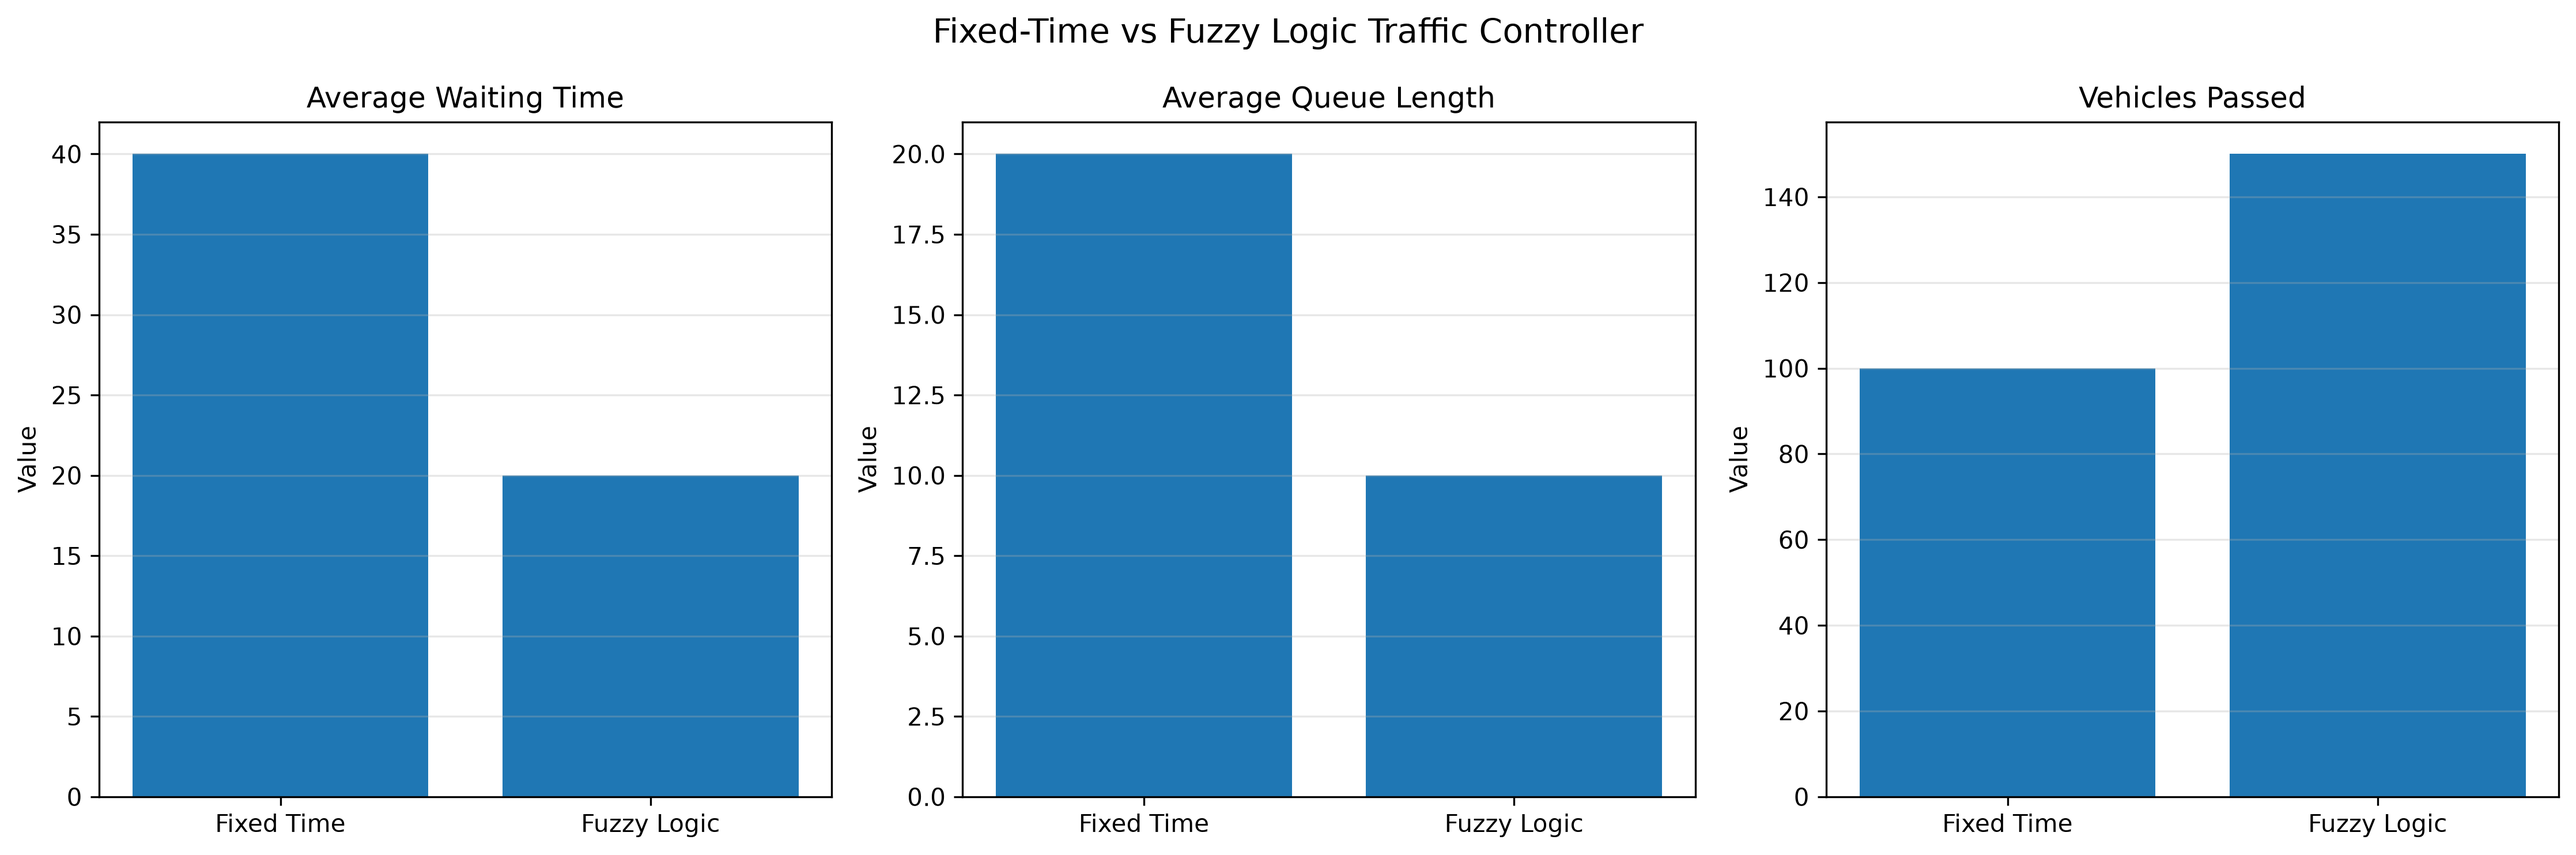
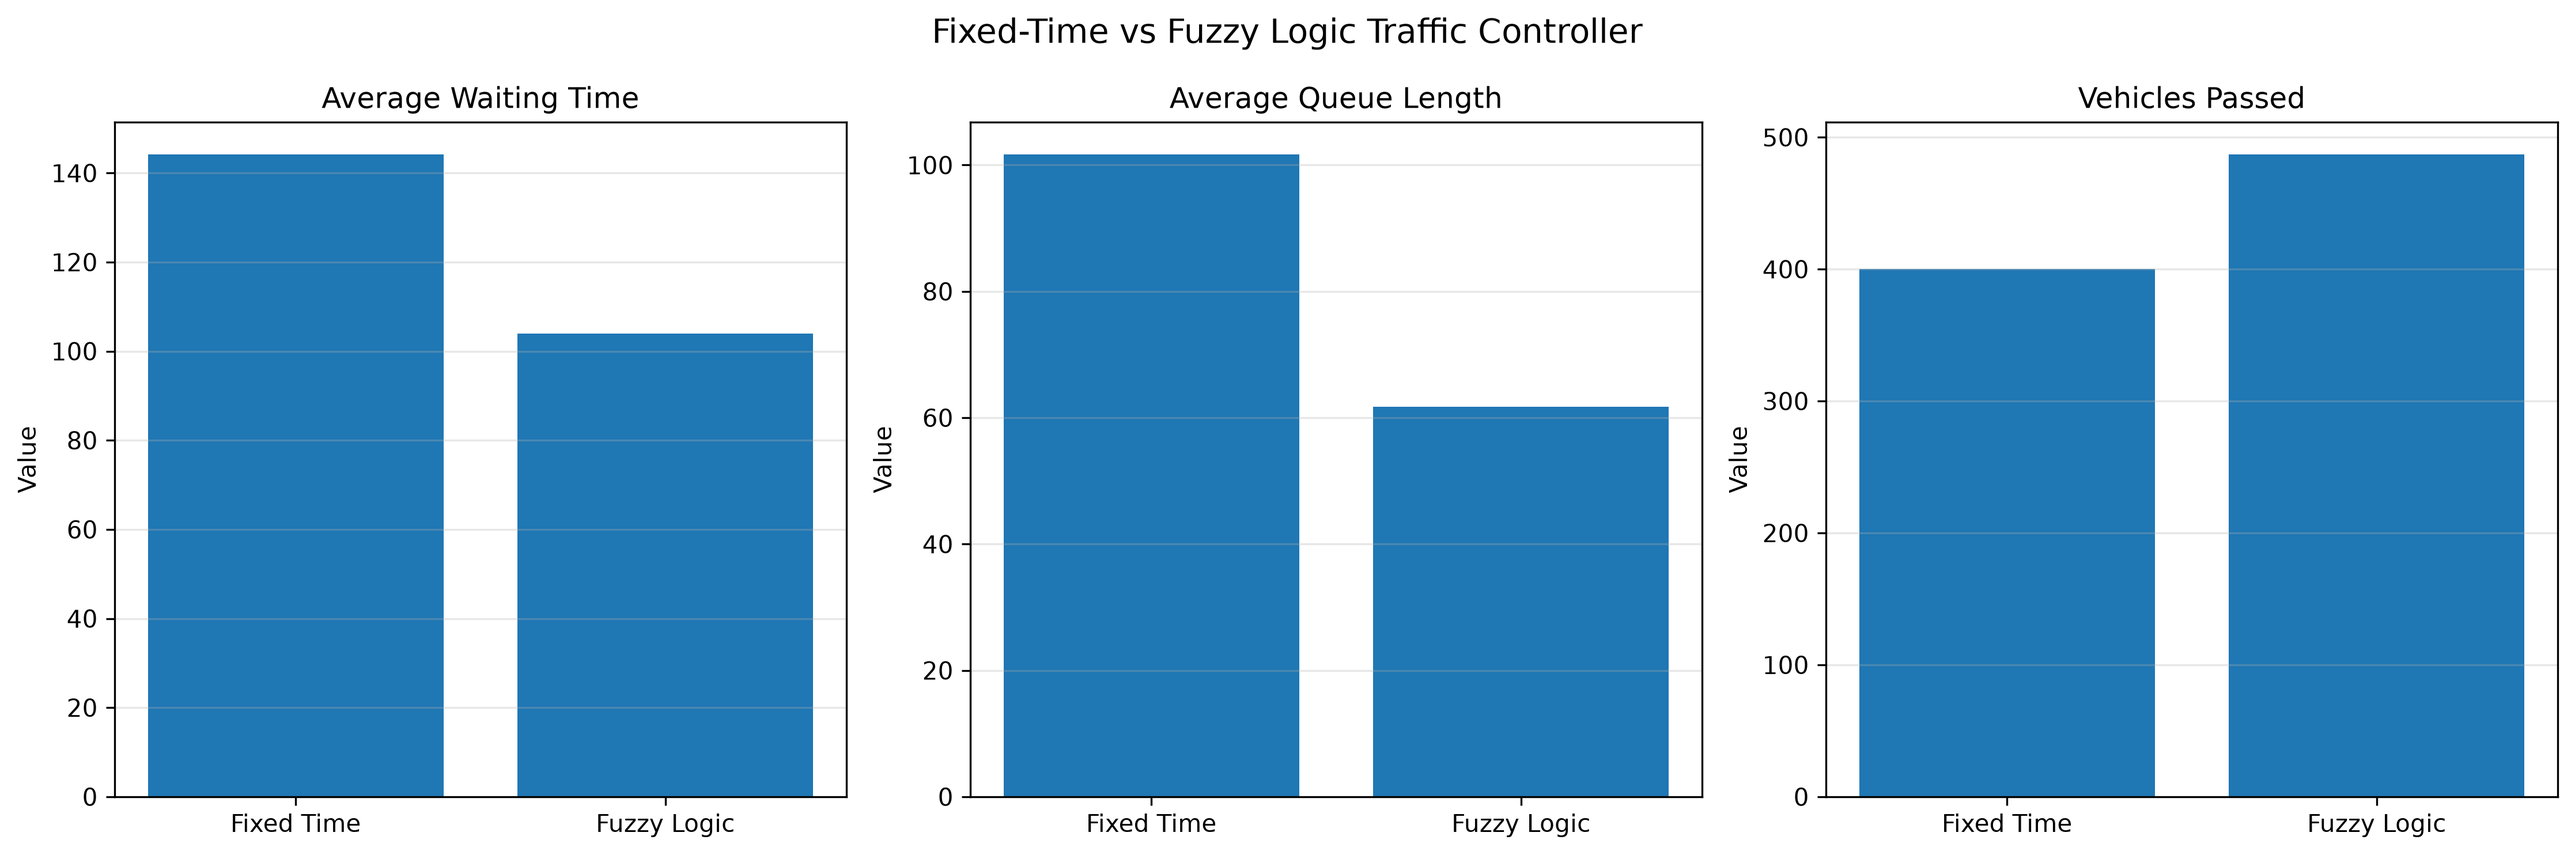
Complete traffic controller integration

diff --git a/app.py b/app.py
@@ -10,11 +10,16 @@ from simulation import (
 
 from fuzzy_logic import fuzzy_controller
 
-# Person 2: Performance Metrics
 from traffic_metrics import (
     calculate_metrics,
     compare_controllers,
     get_congestion_level
+)
+
+from visualization import (
+    create_comparison_graph,
+    create_waiting_time_graph,
+    create_queue_graph
 )
 
 
@@ -37,12 +42,12 @@ st.write(
 
 
 # --------------------------------------------------
-# SIDEBAR: SIMULATION SETTINGS
+# SIDEBAR - SIMULATION SETTINGS
 # --------------------------------------------------
 
 with st.sidebar:
 
-    st.header("Simulation Settings")
+    st.header("⚙ Simulation Settings")
 
     minutes = st.slider(
         "Duration (minutes)",
@@ -74,7 +79,7 @@ with st.sidebar:
 # RUN SIMULATION
 # --------------------------------------------------
 
-if st.button("Run Simulation", type="primary"):
+if st.button("🚦 Run Simulation", type="primary"):
 
     seconds = minutes * 60
 
@@ -115,7 +120,9 @@ if st.button("Run Simulation", type="primary"):
 
 if "results" not in st.session_state:
 
-    st.info("Configure the simulation settings and click Run Simulation.")
+    st.info(
+        "Configure the simulation settings and click Run Simulation."
+    )
 
 else:
 
@@ -129,7 +136,7 @@ else:
 
 
     # --------------------------------------------------
-    # PERSON 2: CALCULATE PERFORMANCE METRICS
+    # CALCULATE PERFORMANCE METRICS
     # --------------------------------------------------
 
     fixed_summary = calculate_metrics(
@@ -146,18 +153,13 @@ else:
 
 
     # --------------------------------------------------
-    # PERSON 2: COMPARE BOTH CONTROLLERS
+    # COMPARE CONTROLLERS
     # --------------------------------------------------
 
     controller_comparison = compare_controllers(
         fixed_summary,
         fuzzy_summary
     )
-
-
-    # --------------------------------------------------
-    # PERSON 2: CONGESTION CLASSIFICATION
-    # --------------------------------------------------
 
     fixed_congestion = get_congestion_level(
         fixed_summary["average_queue_length"]
@@ -169,7 +171,7 @@ else:
 
 
     # --------------------------------------------------
-    # SECTION 1: PERFORMANCE OVERVIEW
+    # PERFORMANCE OVERVIEW
     # --------------------------------------------------
 
     st.divider()
@@ -197,7 +199,9 @@ else:
             fixed_summary["total_vehicles_passed"]
         )
 
-        st.info(f"Congestion Level: {fixed_congestion}")
+        st.info(
+            f"Congestion Level: {fixed_congestion}"
+        )
 
 
     with col2:
@@ -225,11 +229,13 @@ else:
             fuzzy_summary["total_vehicles_passed"]
         )
 
-        st.success(f"Congestion Level: {fuzzy_congestion}")
+        st.success(
+            f"Congestion Level: {fuzzy_congestion}"
+        )
 
 
     # --------------------------------------------------
-    # SECTION 2: PERCENTAGE IMPROVEMENT
+    # PERCENTAGE IMPROVEMENT
     # --------------------------------------------------
 
     st.divider()
@@ -244,7 +250,9 @@ else:
 
         improvement = values["improvement_percentage"]
 
-        st.write(f"Improvement: {improvement}%")
+        st.write(
+            f"Improvement: {improvement}%"
+        )
 
         if improvement > 0:
 
@@ -254,11 +262,13 @@ else:
 
         else:
 
-            st.info("No positive improvement over fixed-time control.")
+            st.info(
+                "No positive improvement over fixed-time control."
+            )
 
 
     # --------------------------------------------------
-    # SECTION 3: DETAILED COMPARISON TABLE
+    # DETAILED SIMULATION RESULTS
     # --------------------------------------------------
 
     st.divider()
@@ -280,7 +290,7 @@ else:
 
 
     # --------------------------------------------------
-    # SECTION 4: WAITING TIME COMPARISON
+    # WAITING TIME COMPARISON
     # --------------------------------------------------
 
     st.divider()
@@ -298,9 +308,7 @@ else:
     )
 
     ax.set_ylabel("Average Waiting Time (seconds)")
-
     ax.set_title("Average Waiting Time Comparison")
-
     ax.grid(axis="y", alpha=0.3)
 
     st.pyplot(fig)
@@ -309,7 +317,7 @@ else:
 
 
     # --------------------------------------------------
-    # SECTION 5: QUEUE LENGTH OVER TIME
+    # QUEUE LENGTH OVER TIME
     # --------------------------------------------------
 
     st.divider()
@@ -333,12 +341,15 @@ else:
 
     ax.set_xlabel("Time (minutes)")
 
-    ax.set_ylabel("Queue Length (15-second rolling average)")
+    ax.set_ylabel(
+        "Queue Length (15-second rolling average)"
+    )
 
-    ax.set_title("Fixed-Time vs Fuzzy Logic Traffic Queue")
+    ax.set_title(
+        "Fixed-Time vs Fuzzy Logic Traffic Queue"
+    )
 
     ax.legend()
-
     ax.grid(True, alpha=0.3)
 
     st.pyplot(fig)
@@ -347,7 +358,66 @@ else:
 
 
     # --------------------------------------------------
-    # SECTION 6: GREEN LIGHT DECISIONS
+    # PERSON 3 - ADDITIONAL VISUALIZATIONS
+    # --------------------------------------------------
+
+    st.divider()
+
+    st.header("📊 Additional Visualizations")
+
+    # Generate and save graphs
+
+    create_comparison_graph(
+        fixed_summary,
+        fuzzy_summary
+    )
+
+    create_waiting_time_graph(
+        fixed_summary["average_waiting_time"],
+        fuzzy_summary["average_waiting_time"]
+    )
+
+    create_queue_graph(
+        fixed_summary["average_queue_length"],
+        fuzzy_summary["average_queue_length"]
+    )
+
+
+    # Display comparison graph
+
+    st.subheader("Controller Performance Comparison")
+
+    st.image(
+        "results/controller_comparison.png",
+        use_container_width=True
+    )
+
+
+    # Display waiting time and queue graphs
+
+    col1, col2 = st.columns(2)
+
+    with col1:
+
+        st.subheader("Waiting Time Comparison")
+
+        st.image(
+            "results/waiting_time.png",
+            use_container_width=True
+        )
+
+    with col2:
+
+        st.subheader("Queue Length Comparison")
+
+        st.image(
+            "results/queue_comparison.png",
+            use_container_width=True
+        )
+
+
+    # --------------------------------------------------
+    # GREEN LIGHT DECISIONS
     # --------------------------------------------------
 
     st.divider()
@@ -376,7 +446,7 @@ else:
 
 
     # --------------------------------------------------
-    # SECTION 7: DOWNLOAD RESULTS
+    # DOWNLOAD RESULTS
     # --------------------------------------------------
 
     st.divider()

diff --git a/visualization.py b/visualization.py
@@ -1,8 +1,5 @@
-
-"""
-Traffic Visualization Module
-Person 3 Contribution
-"""
+import matplotlib
+matplotlib.use("Agg")
 
 import matplotlib.pyplot as plt
 import os
@@ -38,9 +35,7 @@ def create_comparison_graph(fixed_metrics, fuzzy_metrics):
         )
 
         axes[i].set_title(metrics[i])
-
         axes[i].set_ylabel("Value")
-
         axes[i].grid(axis="y", alpha=0.3)
 
     plt.suptitle(
@@ -58,23 +53,21 @@ def create_comparison_graph(fixed_metrics, fuzzy_metrics):
         bbox_inches="tight"
     )
 
-    plt.show()
+    plt.close(fig)
 
 
 def create_waiting_time_graph(fixed_waiting, fuzzy_waiting):
 
-    plt.figure(figsize=(8, 5))
+    fig, ax = plt.subplots(figsize=(8, 5))
 
-    plt.bar(
+    ax.bar(
         ["Fixed Time", "Fuzzy Logic"],
         [fixed_waiting, fuzzy_waiting]
     )
 
-    plt.title("Average Traffic Waiting Time")
-
-    plt.ylabel("Waiting Time (seconds)")
-
-    plt.grid(axis="y", alpha=0.3)
+    ax.set_title("Average Traffic Waiting Time")
+    ax.set_ylabel("Waiting Time (seconds)")
+    ax.grid(axis="y", alpha=0.3)
 
     os.makedirs("results", exist_ok=True)
 
@@ -84,23 +77,21 @@ def create_waiting_time_graph(fixed_waiting, fuzzy_waiting):
         bbox_inches="tight"
     )
 
-    plt.show()
+    plt.close(fig)
 
 
 def create_queue_graph(fixed_queue, fuzzy_queue):
 
-    plt.figure(figsize=(8, 5))
+    fig, ax = plt.subplots(figsize=(8, 5))
 
-    plt.bar(
+    ax.bar(
         ["Fixed Time", "Fuzzy Logic"],
         [fixed_queue, fuzzy_queue]
     )
 
-    plt.title("Average Traffic Queue Length")
-
-    plt.ylabel("Number of Vehicles")
-
-    plt.grid(axis="y", alpha=0.3)
+    ax.set_title("Average Traffic Queue Length")
+    ax.set_ylabel("Number of Vehicles")
+    ax.grid(axis="y", alpha=0.3)
 
     os.makedirs("results", exist_ok=True)
 
@@ -110,5 +101,4 @@ def create_queue_graph(fixed_queue, fuzzy_queue):
         bbox_inches="tight"
     )
 
-    plt.show()
-
+    plt.close(fig)
